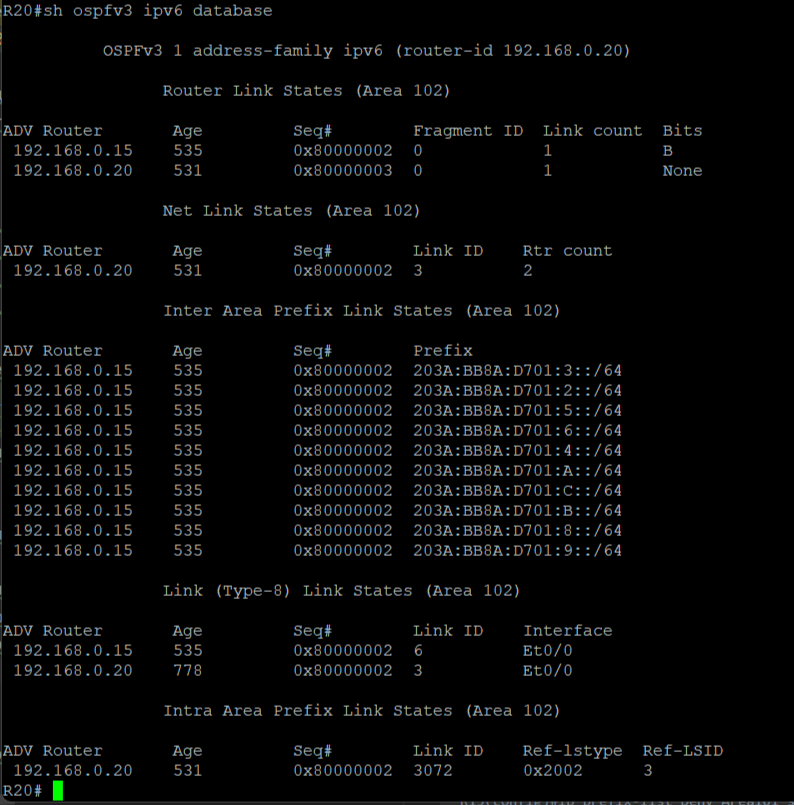
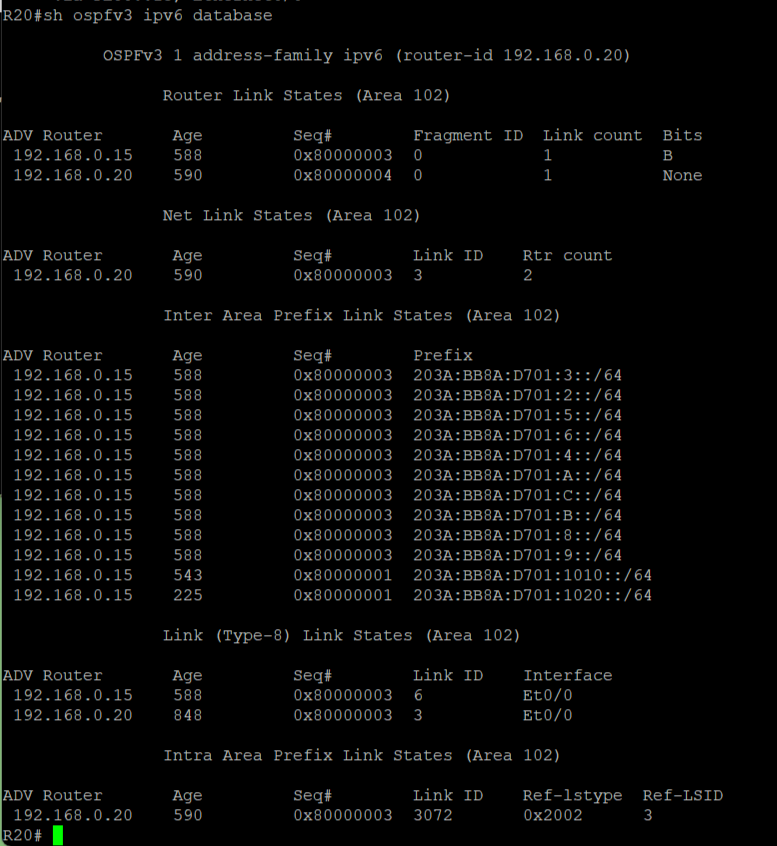
commit

diff --git a/labs/lab06/readme.md b/labs/lab06/readme.md
@@ -322,9 +322,17 @@ R15(config-router)#area 102 filter-list prefix Deny_Area101 in
 Аналогично выполним настройки OSPFv3 для IPv6.
 Приведем для иллюстрации пару примеров без описания в подтверждение выполнения условий задания
 Вывод таблицы LSDB R20
+
 ![IPv6 R20 LSDB.png](IPv6%20R20%20LSDB.png)
+
 Вывод таблицы маршрутизации IPv6 на R20
 ![IPv6 Route OSPF R20.png](IPv6%20Route%20OSPF%20R20.png)
-
+Очевидно, что получены маршруты в том числе и до клиентских сетей.
+````
+OI  203A:BB8A:D701:1010::/64 [110/31]
+     via FE80::15, Ethernet0/0
+OI  203A:BB8A:D701:1020::/64 [110/31]
+     via FE80::15, Ethernet0/0
+````
 Настройки оборудование приведены [здесь]()
 
